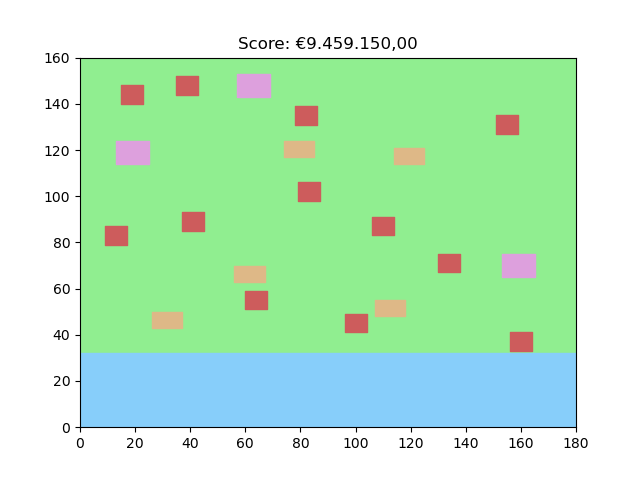
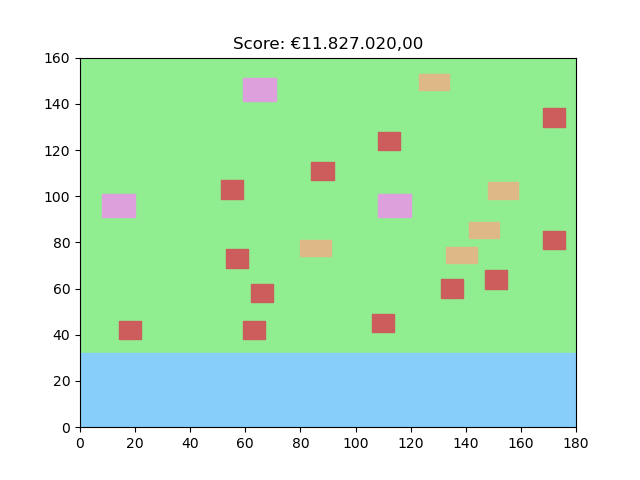
update

diff --git a/code/helpers/score.py b/code/helpers/score.py
@@ -24,19 +24,12 @@ def scorecalculator(neighbourhood):
         if house.name != "WATER":
 
             # calculate the new house price with the price increasement from the extra free space
-            house.score = house.price*(1 + house.price_increasement*(round_down(house.shortest_distance,0)))
+            house.score = house.price*((1 + house.price_increasement*house.shortest_distance))
             score += house.score
 
     # return the score
     return score
 
-def round_down(n, decimals=0):
-
-    # the selected decimals as a power of the 10 to get the decimals before the .
-    multiplier = 10 ** decimals
-
-    # math.floor rounds the number down to the closest whole number below, though the multiplier we keep the wanted decimals
-    return math.floor(n * multiplier) / multiplier
 
 def distance_check(neighbourhood, version="efficient"):
     # create dictionaries
